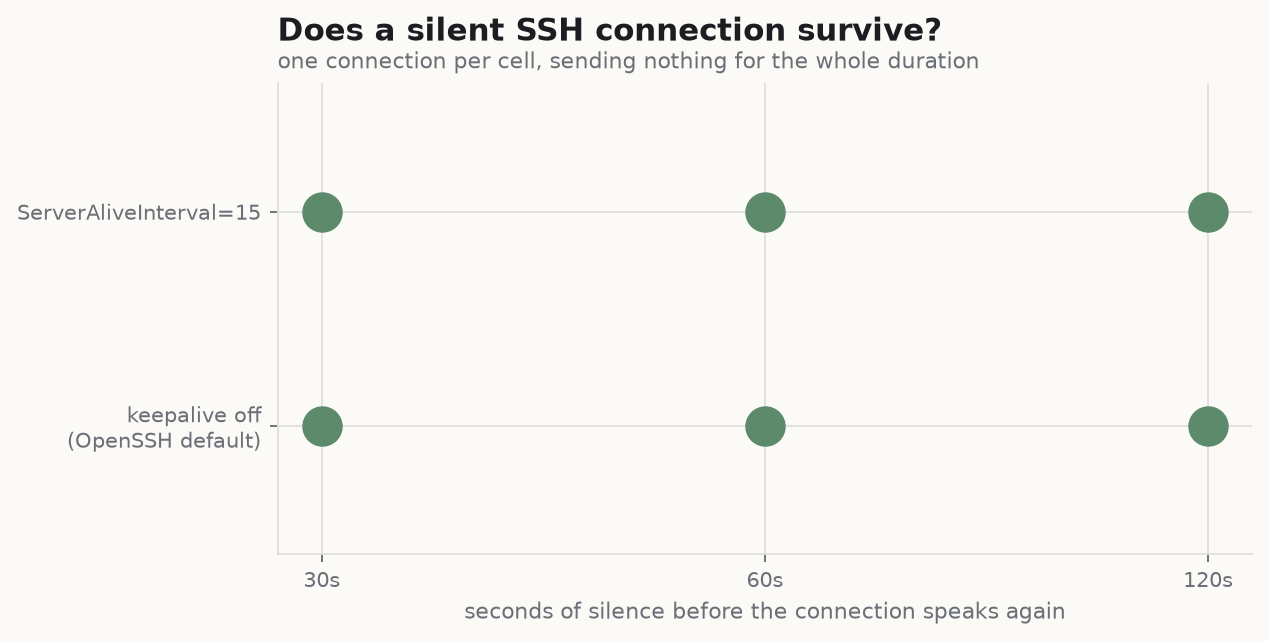
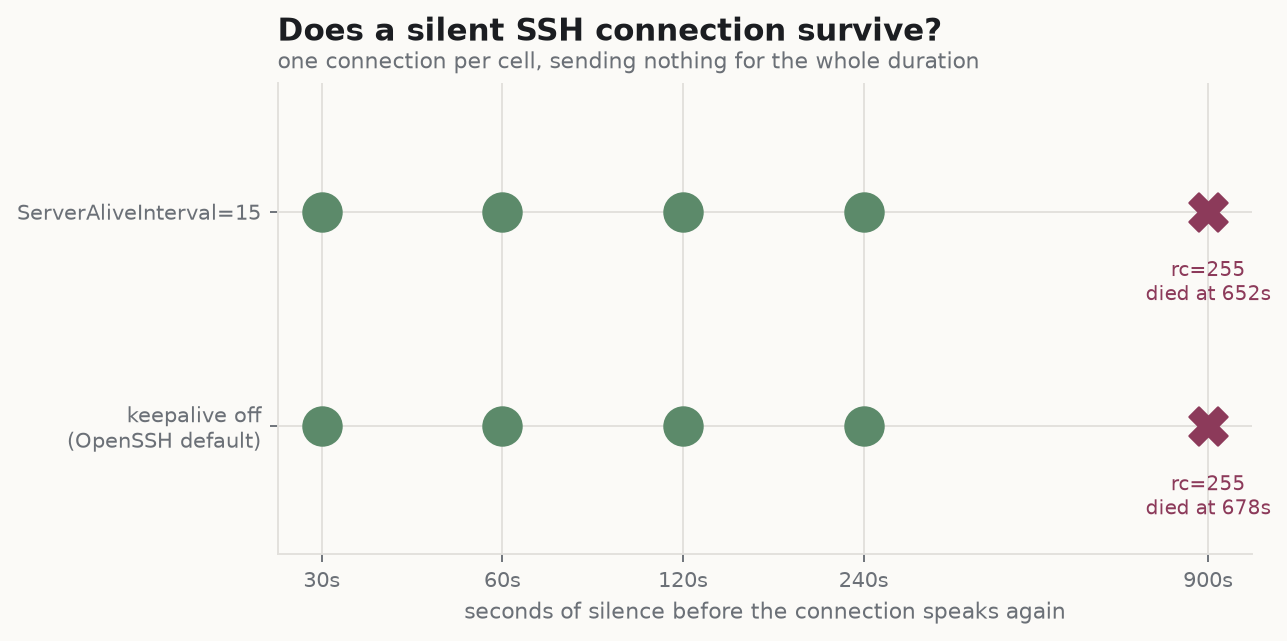
debug: ssh probe result — an idle session dies at 600s, keepalive survives 900s

diff --git a/scripts/plot_bench.py b/scripts/plot_bench.py
@@ -426,8 +426,13 @@ def chart_ssh(records) -> None:
                        color=COLOR["fp16+compile"] if ok else COLOR["divergence"],
                        zorder=3)
             if not ok:
-                ax.text(idle, row - 0.22, f"rc={r['returncode']}", ha="center",
-                        va="top", color=COLOR["divergence"], fontsize=8.5)
+                # When it died matters more than that it died: the wall clock
+                # is where the timeout actually sits, and the cell's own
+                # duration is only an upper bound on it.
+                ax.text(idle, row - 0.22,
+                        f"rc={r['returncode']}\ndied at {r['wall_s']:.0f}s",
+                        ha="center", va="top", color=COLOR["divergence"],
+                        fontsize=8.5)
 
     ax.set_xscale("log")
     ax.minorticks_off()  # the log locator otherwise labels a 4x10^1 nobody asked for
